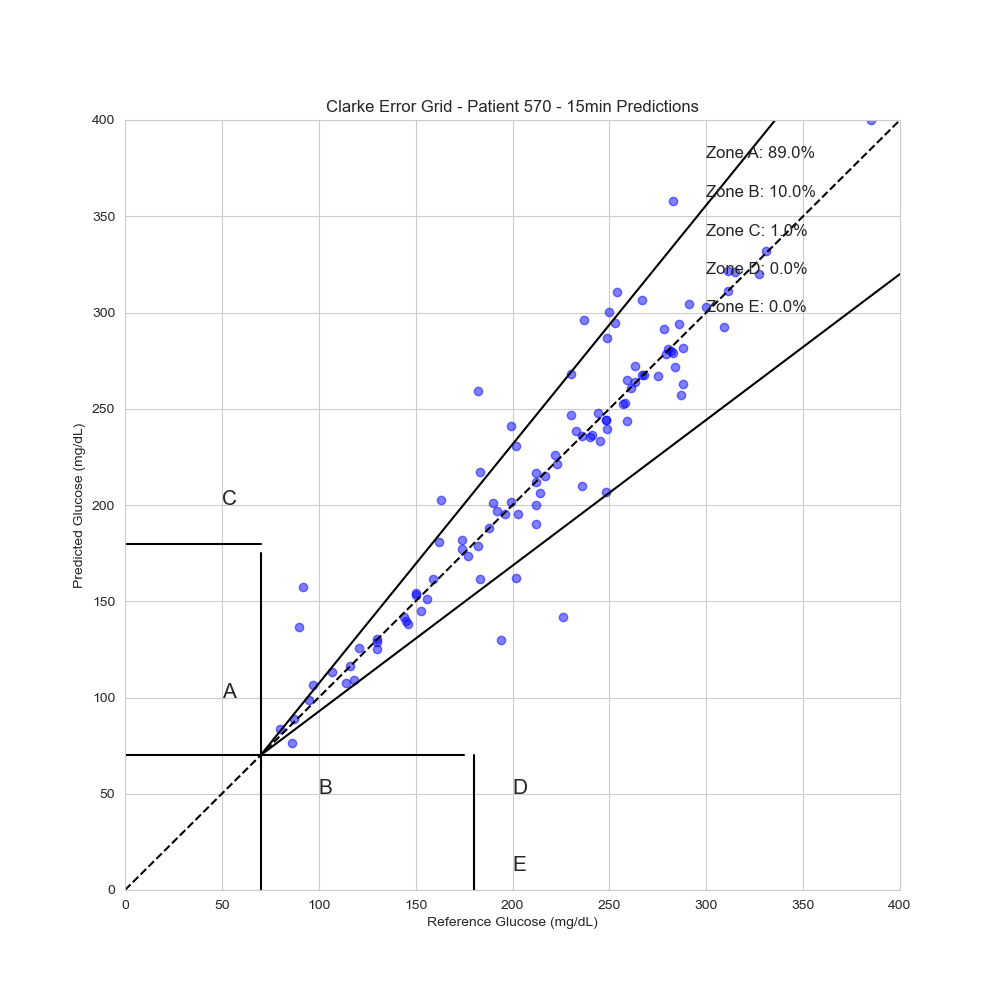
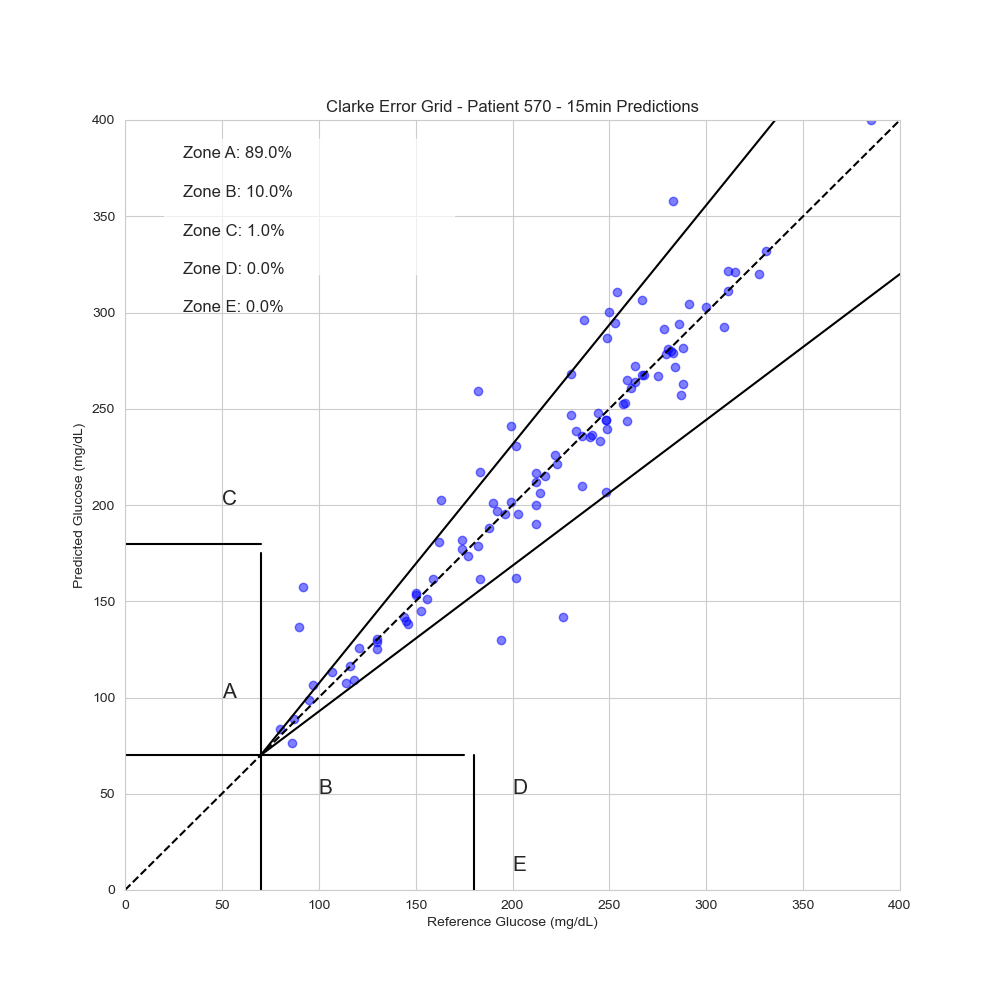
Fix Clarke Error Grid visualization by moving zone statistics to avoid overlap with data points

diff --git a/validate_api.py b/validate_api.py
@@ -100,12 +100,16 @@ def plot_clarke_error_grid(reference, prediction, patient_id, horizon, output_di
     # Calculate zone percentages
     zones = clarke_error_grid(reference, prediction)
     
-    # Add zone percentages to the plot
-    plt.text(300, 380, f"Zone A: {zones['A']:.1f}%", fontsize=12)
-    plt.text(300, 360, f"Zone B: {zones['B']:.1f}%", fontsize=12)
-    plt.text(300, 340, f"Zone C: {zones['C']:.1f}%", fontsize=12)
-    plt.text(300, 320, f"Zone D: {zones['D']:.1f}%", fontsize=12)
-    plt.text(300, 300, f"Zone E: {zones['E']:.1f}%", fontsize=12)
+    # Add zone percentages to the plot - MOVED TO LEFT SIDE with a background box
+    # Create a semi-transparent white box for better readability
+    plt.gca().add_patch(plt.Rectangle((20, 320), 150, 70, facecolor='white', alpha=0.7))
+    
+    # Add percentage text on top of the box
+    plt.text(30, 380, f"Zone A: {zones['A']:.1f}%", fontsize=12)
+    plt.text(30, 360, f"Zone B: {zones['B']:.1f}%", fontsize=12)
+    plt.text(30, 340, f"Zone C: {zones['C']:.1f}%", fontsize=12)
+    plt.text(30, 320, f"Zone D: {zones['D']:.1f}%", fontsize=12)
+    plt.text(30, 300, f"Zone E: {zones['E']:.1f}%", fontsize=12)
     
     plt.title(f'Clarke Error Grid - Patient {patient_id} - {horizon}min Predictions')
     plt.xlabel('Reference Glucose (mg/dL)')
